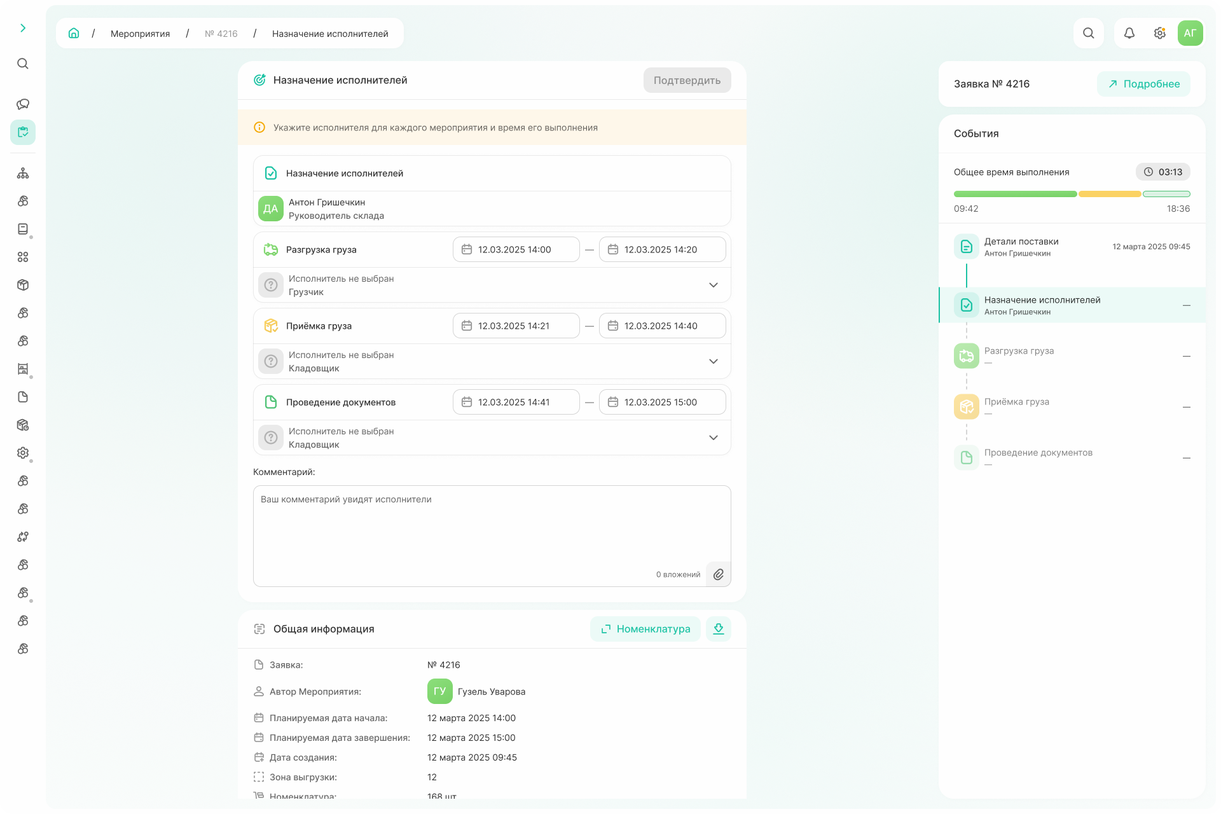
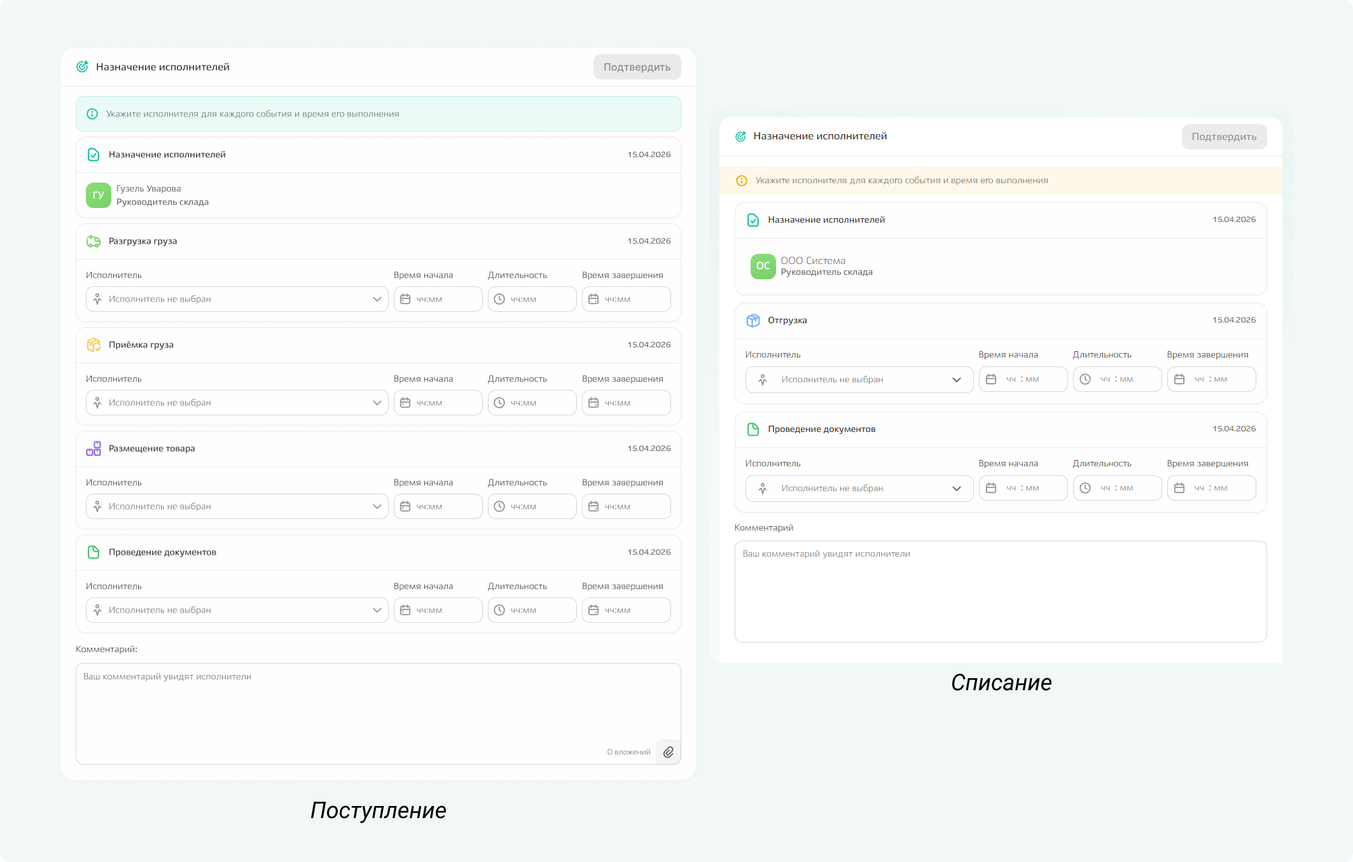
how to task first draft

diff --git a/docs/ru/how_to_task.md b/docs/ru/how_to_task.md
@@ -7,22 +7,11 @@
 {% endnote %}
 
 **С заявкой работают разные контрагенты:**
-
-{% list tabs radio %}
-
-- автор заявки
-
-  создает и заполняет основную информацию — таким правом обладает руководитель склада или менеджер 
-
-- ответственный по заявке
-
-  назначает исполнителей по заявке — таким правом обладает только руководитель склада, назначаемый автоматически в соответствии с указанным в договоре пространством
-
-- исполнитель
-
-  выполняет работы в рамках события внутри заявки и делает отметки о результате выполнения задач, может быть несколько исполнителей по одной заявке
-
-{% endlist %}
+— *автор заявки* — создает и заполняет основную информацию.
+Таким правом обладает руководитель склада или менеджер;
+— *ответственный по заявке* — назначает исполнителей по заявке. 
+Таким правом обладает только руководитель склада, назначаемый автоматически в соответствии с указанным в договоре пространством;
+— *исполнитель* — выполняет работы в рамках события внутри заявки и делает отметки о результате выполнения задач, может быть несколько исполнителей по одной заявке.
 
 **Также у заявки есть тип:** поступление или списание. 
 В зависимости от этого типа отличается список событий и информация, указываемая при создании заявки.
@@ -72,8 +61,10 @@
 
     {% endnote %}
 
-  **На вкладке «Номенклатура»** введите в поиске наименование, артикул или SAP-код необходимой номенклатуры, по команде «Добавить» откройте карточку номенклатуры и заполните поля: тираж (количество поступающей номенклатуры), состояние, инициатор ПО, владелец склада, инициатор поставки и бренд. 
-  После внесения всей информации добавьте номенклатуру в заявку по команде «Сохранить».  
+    **На вкладке «Номенклатура»** введите в поиске наименование, артикул или SAP-код необходимой номенклатуры. Если номенклатура была обнаружена, то кликнете по значению в выпадающем списке, а в открывшемся модальном окне укажите тираж (количество поступающей номенклатуры), состояние, инициатор ПО, владелец склада, инициатор поставки и бренд. 
+    *Если номенклатура не нашлась, то по команде «Добавить» можно создать новую номенклатуру, заполнив данные в открывшемся модальном окне. Номенклатура будет добавлена не только в заявку, но и в справочник «Номенклатуры».*
+
+    После внесения всей информации добавьте номенклатуру в заявку по команде «Сохранить».  
    
     ![_screen_task_nomenc](_images/_screen_task_nomenc.png){.center width=1200}
 
@@ -83,7 +74,7 @@
 
     {% note info %}
 
-    **В момент создания заявки включается таймер.** Таймер фиксирует как общее время выполнения, так и время выполнения по каждому из этапов, а [прогресс-бар][8] над списком событий графически отражает как этапы соотносятся друг с другом по длительности.  
+    **В момент создания заявки включается таймер.** Таймер фиксирует как общее время выполнения, так и время выполнения по каждому из этапов, а [прогресс-бар][8] над списком событий графически отражает как этапы соотносятся друг с другом по длительности. И таймер, и прогресс-бар будут отображены после клика по команде «Создать».  
 
     {% endnote %}
 
@@ -96,7 +87,7 @@
     **На вкладке «Основное» указываются**
     - тип заявки: списание,
     - планируемая дата начала работ по заявке,
-    - причина списания,
+    - причина списания: поставка, брак, бой, истечение срока годности,
     - комментарий: виден для исполнителей, при необходимости можно прикрепить файлы для конкретизации, 
     - контрагент, который выполняет работу по заявке,
     - договор, в рамках которого выполняется работа по заявке.
@@ -127,17 +118,17 @@
 
     {% endnote %}
 
-    **На вкладке «Номенклатура»** введите в поиске наименование, артикул или SAP-код необходимой номенклатуры и по команде «Добавить» откройте карточку номенклатуры. Для заявки на списание указывается только количество номенклатуры, которое будет списано. После заполнения добавьте номенклатуру в заявку по команде «Сохранить».  
+    **На вкладке «Номенклатура»** введите в поиске наименование, артикул или SAP-код необходимой номенклатуры. Если номенклатура была обнаружена, то кликнете по значению в выпадающем списке, а в открывшемся модальном окне укажите количество номенклатуры, которое будет списано. После заполнения добавьте номенклатуру в заявку по команде «Сохранить».  
    
-    ![_screen_task_nomenc](_images/_screen_task_nomenc.png){.center width=1200}
+    ![_screen_task_nomenc](_images/_screen_task_nomenc_minus.png){.center width=1200}
 
     Когда вся номенклатура добавлена, нажмите команду «Создать».
 
-    ![_screen_task_list_nomenc](_images/_screen_task_list_nomenc.png){.center width=600}
+    ![_screen_task_list_nomenc](_images/_screen_task_list_nomenc_minus.png){.center width=1200}
 
     {% note info %}
 
-    **В момент создания заявки включается таймер.** Таймер фиксирует как общее время выполнения, так и время выполнения по каждому из этапов, а [прогресс-бар][8] над списком событий графически отражает как этапы соотносятся друг с другом по длительности.  
+    **В момент создания заявки включается таймер.** Таймер фиксирует как общее время выполнения, так и время выполнения по каждому из этапов, а [прогресс-бар][8] над списком событий графически отражает как этапы соотносятся друг с другом по длительности. И таймер, и прогресс-бар будут отображены после клика по команде «Создать».  
 
     {% endnote %}
 
@@ -149,13 +140,13 @@
 
 ## Событие. Назначение исполнителей
 
-Есди автором заявки был менеджер, то это и последующие описанные события для него недоступны.
+**Если автором заявки был менеджер,** то это и последующие описанные события для него недоступны.
 
-Если автором заявки был руководитель склада, после заполнения основной информации он сразу переходит к назначению исполнителей.
+**Если автором заявки был руководитель склада,** после заполнения основной информации он сразу переходит к назначению исполнителей.
 
 ![_screen_lead_warehouse](_images/_screen_lead_warehouse.png){.center width=1200}
 
-Набор событий или [карточек][9], по которым необходимо назначить исполнителей, зависит от типа заявки. Для каждой — свой ответственный. 
+Набор [карточек][9], которые отражают последующие события мероприятия, зависит от типа заявки. Для каждой карточки необходимо назначить своего ответственного. 
 
 Время выставляется, исходя из дат, указанных автором заявки (планируемая дата начала), и по умолчанию распределяется в соответствии с нормативным временем выполнения каждого события. Как руководитель склада вы можете выставить свое время независимо от даты, указанной автором заявки. 
 
@@ -165,136 +156,11 @@
 
 {% note info %}
 
-Руководитель склада может запускать и останавливать любые мероприятия, даже если он на них не назначен как исполнитель.
+**Руководитель склада** может запускать и останавливать любые мероприятия, даже если он на них не назначен как исполнитель.
+**Исполнители** же работают по заявке в соответствии со своим назначением. Работы по заявкам поступления и списания отличаются, но всегда выполняется последовательно. Это значит, что каждый исполнитель может начать выполнение работ по заявке только после завершения предыдущего этапа работ по заявке.
 
 {% endnote %} 
 
-## Выполнение мероприятий по заявке
-
-Разные исполнители работают по заявке в соответствии со своим назначением. Работы по заявкам поступления, списания и инвентаризации отличаются, но всегда выполняется последовательно. Это значит, что каждый исполнитель может начать выполнение работ по заявке только после завершения предыдущего этапа работ по заявке. 
-
-Чтобы начать выполнение работ по заявке, воспользуйтесь командой «Начать мероприятие». После этого включится таймер, который будет фиксировать фактическое время выполнения. 
-
-{% list tabs %}
-
-- Поступление
-
-  **3.1. Разгрузка груза**
-  Поступление начинается с события «разгрузка груза». 
-  Перед тем, как начать мероприятие, проверьте соответствие документов и заявки.  
-
-  ![_screen_task_step_1_unpack](_images/_screen_task_step_1_unpack.png){.center width=1200}
- 
-  После начала мероприятия исполнитель указывает зону погрузки. Без этой информации завершить мероприятие будет нельзя. 
-
-  Также пока выполняется разгрузка в системе отображается информация о грузе и таймер по мероприятию. При необходимости информацию о грузе можно скачать в формате excel-файла. 
-  
-  Можно прикрепить файлы для дополнения информации о грузе, а также зафиксировать расхождения при наличии.  
-
-  {% note warning %}
-
-  В качестве расхождений указывается любое несоответствие документов и факта. Информация о расхождении будет отображаться для всех последующих мероприятий по заявке.   
-
-  {% endnote %} 
-
-  ![_screen_task_variance](_images/_screen_task_variance.png){.center width=600}
-
-  Мероприятие разгрузки завершается после клика по команде «Завершить». Таймер останавливается, фиксируя фактическое время выполнения, текущий исполнитель переходит к списку мероприятий, а следующий назначенный контрагент может приступать к выполнению своей части работы по заявке. 
-
-  **3.2. Приемка груза**
-
-  Мероприятие «Приемка груза» также стартуется по команде «Начать мероприятие». 
-
-  В этом мероприятии можно просмотреть номенклатуру в заявке. 
-  Всю информацию по единице номенклатуры можно просмотреть в карточке, кликнув по необходимой строчке, а сам список можно распечатать или скачать в виде excel-файла.    
-
-  ![_screen_task_warehouse_nomec](_images/_screen_task_warehouse_nomec.png){.center width=1200}
-
-  При обнаружении расхождений необходимо сформировать акт о расхождениях по команде «Зафиксировать расхождения». 
-  В появившейся форме будет несколько вкладок:
-  - **«Информация»** — содержит детали по заявке.
-  - **«Расхождения»** — на этой вкладке фиксируются несоответствия между фактической поставкой и документами.
-   
-  {% note warning %}
-
-  Если по факту номенклатуры пришло количественно больше, чем ожидалось, или пришла номенклатура, которая не указана в заявке, такая информация указывается на вкладке «Излишки».
-
-  {% endnote %}
-
-  По команде «Добавить» из списка выбираем номенклатуру, по которой есть расхождения, и заполняем поля с фактическими данными по поставке. 
-
-  ![_screen_task_add_incon](_images/_screen_task_add_incon.png){.center width=600}
-
-  Когда вся информация по расхождениям внесена, переходите на вкладку «Излишки» при наличии, или на вкладку «Акт ТОРГ-2». 
-
-  ![_screen_task_incon_next](_images/_screen_task_incon_next.png){.center width=1200}
-
-  - **«Излишки»**
-  
-  Вносится информация по номенклатуре
-    - которая пришла в большем количестве, чем ожидалось;
-    - которой быть не должно. 
-  
-  На основании внесенных данных создается заявка, по которой излишки будут отгружены обратно.  
-
-  Номенклатура выбирается из той, что внесена в систему. Часть полей предзаполняется, часть — заполняется вручную. Также обязательным для заполнения является поле «Комментарий», где описывается несоответствие поставок.
-
-  Внесенные расхождения можно просмотреть в виде списка и внести изменения по ним. Если все излишки отражены, то переходите на вкладку «Акт ТОРГ-2».
-
-  ![_screen_task_divers](_images/_screen_task_divers.png){.center width=1200}
-
-  - **«Акт ТОРГ - 2»**
-
-  После фиксации расхождений и излишков, скачайте шаблон акта, заполните и подпишите его, затем прикрепите скан документа в область загрузки.
- 
-  ![_screen_task_add_act](_images/_screen_task_add_act.png){.center width=1200}
-
-  После загрузки мероприятие «Приемка груза» необходимо завершить по команде «Завершить». 
-
-  **3.3. Внутрискладская транспортировка**
-
-  {% note alert %}
-
-  Данное мероприятие, а также все последующие по заявке поступления (3.4. хранение, 3.5. комплектация, 3.6. отгрузка, 3.7. складское производство) находятся в разработке.
-
-  {% endnote %}
-  
-- Списание
-  
-  Начинается с мероприятия «Отгрузки».
-  
-  Перед стартом проверьте общую информацию и информацию о поставщике, перевозчике, получателе — это необходимо, чтобы удостовериться какую заявку вы взяли в работу. 
-  Далее начните выполнение работ по команде «Начать мероприятие».
-
-  ![_screen_task_info_shipment](_images/_screen_task_info_shipment.png){.center width=1200}
-
-  Для мероприятия «Отгрузка» информация по номенклатуре отображается в виде таблицы в разбивке по точкам.  
-  
-  {% note warning %}
-
-  В таблицах может быть разбивка по партиям. Она отображается если списываемая номенклатура поступила на склад из разных заявок на поступление.
-
-  {% endnote %}
-
-  Номенклатура с одинаковыми названиями и артикулами, но с разными серийными номерами объединяется в общий элемент таблицы, который можно развернуть по клику. 
-
-  ![_screen_task_shipment](_images/_screen_task_shipment.png){.center width=800}
-
-  Номенклатуру можно заменить, если на складе есть номенклатура, не используемая в других заявках, с таким же артикулом, наименованием и состоянием. Для этого необходимо кликнуть на &#10226; в соответствующей строке. Из открывшейся карточки заменяемой номенклатуры по команде «Заменить товар» откройте карточку той номенклатуры, которая будет использоваться в заявке, и укажите место хранения. 
-
-  ![_screen_task_change_nomenc](_images/_screen_task_change_nomenc.png){.center width=800}
-
-- Инвентаризация
-
-    {% note alert %}
-
-    Функционал в разработке.  
-
-    {% endnote %}
-
-{% endlist %}
-
-После того как все мероприятия по заявке выполнены, новый документ появится в подсистеме «Работа склада» → «Документы», откуда документ можно просмотреть, скачать, провести и пометить на удаление. 
 
 [*key_storage]: Кросс-докинг — логистическая схема, по которой грузы принимаются на складе и тут же, без размещения в зоне длительного хранения, перегружаются для дальнейшей отправки конечному получателю.
 
@@ -315,3 +181,5 @@
 [8]: https://lebelena.github.io/diplodoc-example/ru/glossary.html#:~:text=%D0%9F%D1%80%D0%BE%D0%B3%D1%80%D0%B5%D1%81%D1%81%2D%D0%B1%D0%B0%D1%80%20(%D0%B8%D0%BD%D0%B4%D0%B8%D0%BA%D0%B0%D1%82%D0%BE%D1%80%20%D0%B2%D1%8B%D0%BF%D0%BE%D0%BB%D0%BD%D0%B5%D0%BD%D0%B8%D1%8F)
 
 [9]: https://lebelena.github.io/diplodoc-example/ru/glossary.html#:~:text=%D0%9A%D0%B0%D1%80%D1%82%D0%BE%D1%87%D0%BA%D0%B0%20%D0%B7%D0%B0%D0%B4%D0%B0%D1%87%D0%B8/%D0%BA%D0%BE%D0%BD%D1%82%D1%80%D0%B0%D0%B3%D0%B5%D0%BD%D1%82%D0%B0/%D0%BF%D0%BE%D1%80%D1%83%D1%87%D0%B5%D0%BD%D0%B8%D1%8F%20%D0%BF%D0%BE%20%D0%B4%D0%BE%D0%B3%D0%BE%D0%B2%D0%BE%D1%80%D1%83/etc.
+
+[10]: https://lebelena.github.io/diplodoc-example/ru/glossary.html#lcp:~:text=%D0%9C%D0%BE%D0%B4%D0%B0%D0%BB%D1%8C%D0%BD%D0%BE%D0%B5%20%D0%BE%D0%BA%D0%BD%D0%BE/%D1%84%D0%BE%D1%80%D0%BC%D0%B0

diff --git a/docs/ru/how_to_assignment.md b/docs/ru/how_to_assignment.md
@@ -13,7 +13,7 @@
 
 ![_screen_assign_docs](_images/_screen_assign_docs.png){.center width=1200}
 
-## [Событие][8] №1. Заполнение информации о поручении
+## [Событие][8] 1. Заполнение информации о поручении
 
 Выберете договор, в рамках которого хотите создать поручение, и по команде «Открыть» → «Добавить поручение» откройте [форму][3] создания поручения.
 
@@ -29,7 +29,7 @@
 
 По команде «Далее» поручение закрывается и отправляется генеральному директору на согласование. До тех пор, пока генеральный директор не согласует поручение, оно будет недоступно. 
 
-## Событие №2. Согласование поручения
+## Событие 2. Согласование поручения
 
 После создания поручения в списке [мероприятий][5] **генерального директора** появится поручение, которое можно либо отклонить, либо подтвердить. 
 
@@ -59,7 +59,7 @@
 
 {% endlist %}
 
-## Событие №3. Загрузка документов
+## Событие 3. Загрузка документов
 
 Файл по поручению загружается в формате pdf по команде «Прикрепить файл» или перетаскиванием в область загрузки.   
 
